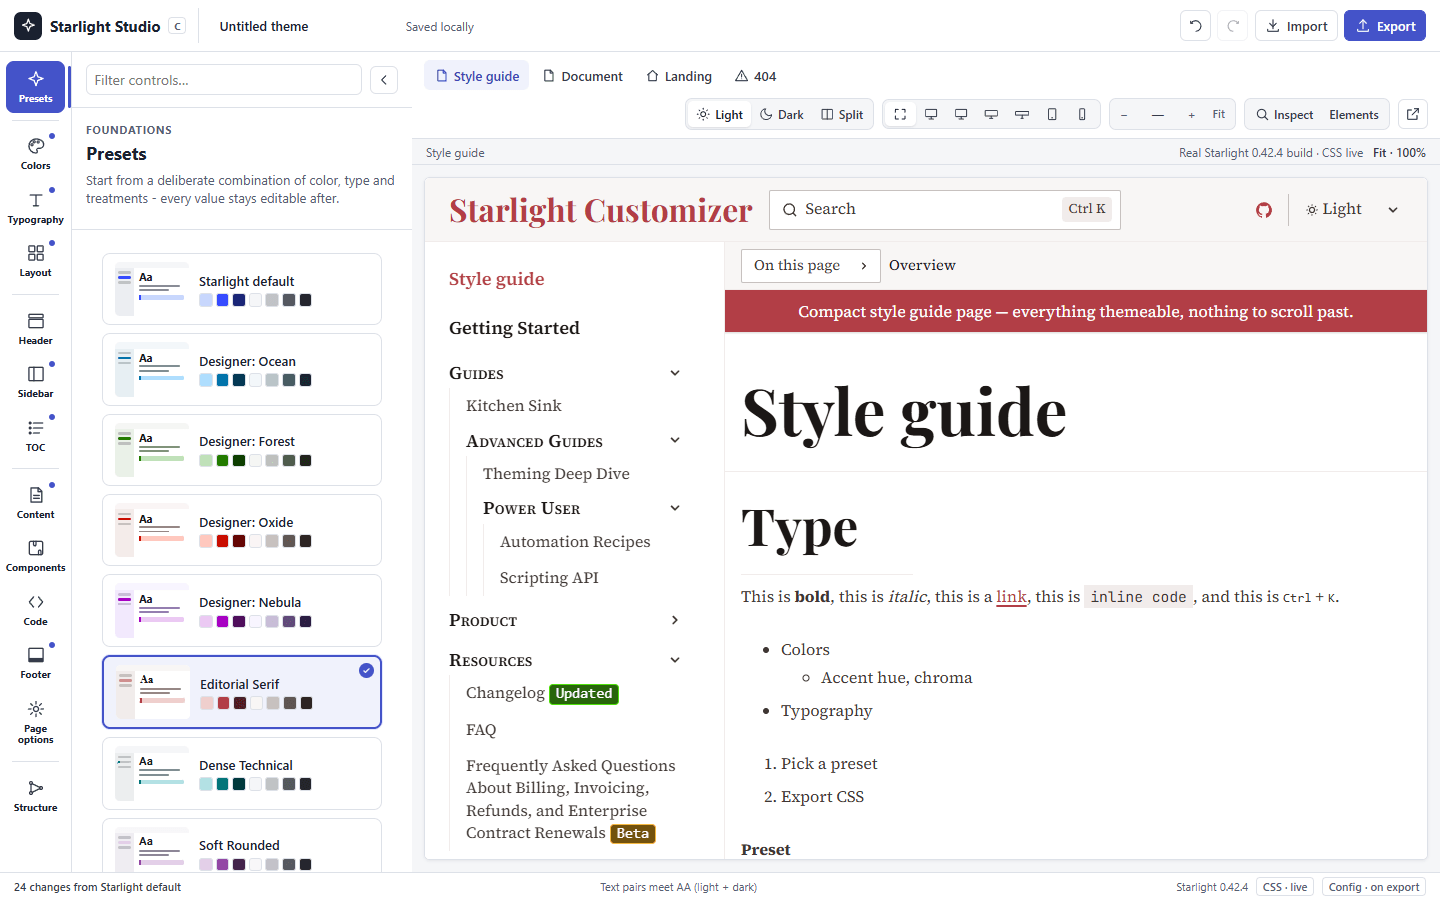
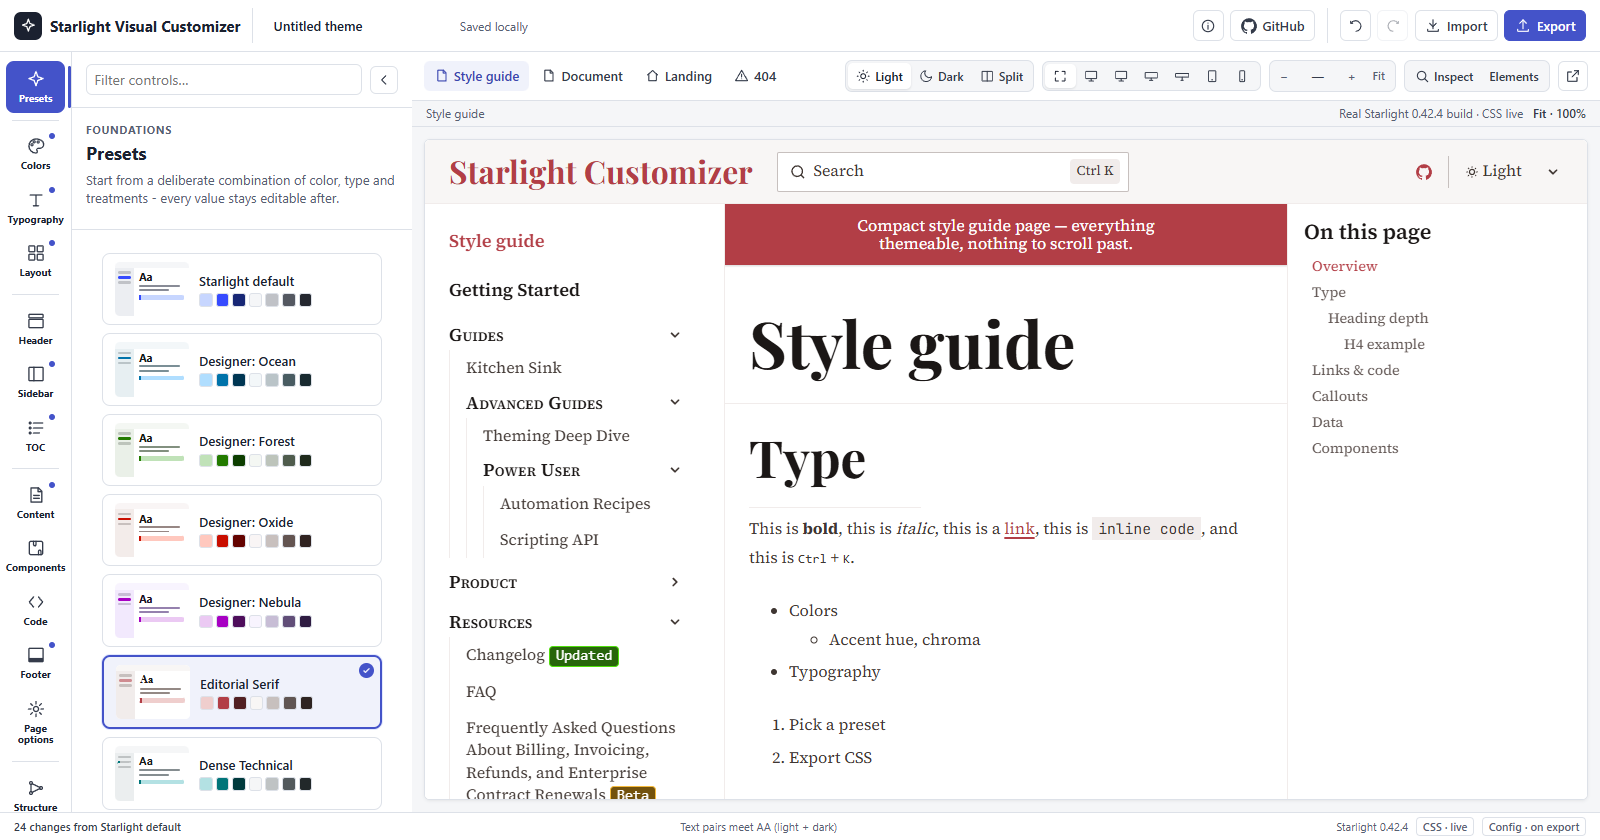
docs: a README that sells the studio, with fresh screenshots
Rewrites the root README as a landing page: a one-line pitch, a "Try it
live" link to the hosted studio, what the studio does, a screenshot grid,
how export works (theme.css plus APPLY-THEME.md, no plugin), privacy,
local setup, tests, the libraries it is built with, and the independence
line from the About page.

The screenshots are new captures of the current studio: the hero
(docs/studio.png, now the Editorial Serif preset, keeping its file name
so the planned social preview card can still start from it), Split light
and dark, the Colors group, the Export dialog and the About dialog. The
old hero still showed the earlier "Starlight Studio" name.

The Tests table no longer hard-codes the e2e check total, which drifted
as suites grew; app/README.md keeps the per-suite counts.

Claude-Session: https://claude.ai/code/session_016S7ZcMgJvVygiJveoNmCUz

diff --git a/README.md b/README.md
@@ -1,13 +1,90 @@
 # Starlight Visual Customizer
 
-A visual theme customizer for [Astro Starlight](https://starlight.astro.build/) docs sites. It
-previews your real Starlight pages live - in an actual iframe, with your real content, not a
-mockup - while you adjust colors, typography, layout, and component styles, then exports a
-`theme.css` and an `APPLY-THEME.md` you drop into your own Starlight project.
+**A free visual theme editor for [Starlight](https://starlight.astro.build/). Restyle colors,
+fonts, layout and components on real Starlight pages, then export one CSS file.**
 
-![The Starlight Studio, showing the Editorial Serif preset applied to the style guide page](docs/studio.png)
+[![Try it live](https://img.shields.io/badge/Try_it_live-open_the_studio-4453c9?style=for-the-badge)](https://projects.prisantlabs.com/starlight-visual-customizer/studio/)
+[![MIT license](https://img.shields.io/badge/license-MIT-blue)](LICENSE)
+[![Built for Starlight 0.42.4](https://img.shields.io/badge/Starlight-0.42.4-6d4aff)](https://starlight.astro.build/)
+[![Astro 7.3.5](https://img.shields.io/badge/Astro-7.3.5-ff5d01)](https://astro.build/)
 
-## Quick start
+[![The studio with the Editorial Serif preset applied: serif headings, a red accent and a banner on a Starlight style guide page](docs/studio.png)](https://projects.prisantlabs.com/starlight-visual-customizer/studio/)
+
+Starlight's built-in color theme editor sets an accent color and a gray. This editor covers
+typography, layout and component styles too. Every change appears at once on real Starlight
+pages, in light mode and dark mode.
+
+## What you can do
+
+- **Start from a preset.** Nine presets range from Starlight's own default to Editorial Serif and
+  High Contrast Mono. Every value stays editable after you pick one.
+- **Change the whole look, not just the palette.** Colors, fonts, the type scale, the content
+  width, the header, the sidebar, the table of contents, callouts, cards, tables, tabs, code
+  blocks and the footer each have their own controls.
+- **See your theme on real pages.** The preview is an actual Starlight build in a frame, not a
+  mockup. Switch between a style guide, a long document, a landing page and the 404 page.
+- **Check light and dark together.** Split view shows both modes side by side. The status bar
+  reports whether text color pairs meet WCAG AA contrast in both modes.
+- **Find the control for any element.** Turn on Inspect, then click an element on the page to
+  open the controls that style it.
+- **Preview at real sizes.** Device widths run from a 390-pixel phone to a 2560-pixel ultra-wide
+  screen.
+- **Undo anything, and share the result.** Every change is one undo step. A share link carries
+  the whole theme in its URL.
+
+<table>
+  <tr>
+    <td width="50%"><img src="docs/studio-split.png" alt="Split view: the same page in light mode and dark mode, side by side"></td>
+    <td width="50%"><img src="docs/studio-colors.png" alt="The Colors group: accent and gray hue sliders, hex fields and the generated swatches"></td>
+  </tr>
+  <tr>
+    <td><b>Light and dark, side by side.</b> Split view renders the page in both modes from one theme.</td>
+    <td><b>Colors that stay readable.</b> Pick a hue or type a hex value; Starlight's palette algorithm tunes lightness per role.</td>
+  </tr>
+  <tr>
+    <td><img src="docs/studio-export.png" alt="The Export dialog listing theme.css, APPLY-THEME.md and state.json"></td>
+    <td><img src="docs/studio-about.png" alt="The About dialog describing the project"></td>
+  </tr>
+  <tr>
+    <td><b>Export in one click.</b> Copy or download each file, or get all three in a zip.</td>
+    <td><b>About the project.</b> What the studio does and where to learn more about Starlight.</td>
+  </tr>
+</table>
+
+## How export works
+
+Export gives you three files. The theme uses Starlight's own `customCss` option, so there is no
+plugin to install.
+
+| File | What it holds |
+|---|---|
+| `theme.css` | Only the values that differ from Starlight's defaults, as plain unlayered CSS |
+| `APPLY-THEME.md` | Numbered steps for adding the theme to your project, which a coding agent can follow too |
+| `state.json` | The theme's settings, so you can import it later and keep editing |
+
+`APPLY-THEME.md` is generated for each theme, and its steps are the same every time:
+
+1. Copy the exported `theme.css` into `src/styles/` in your project.
+2. In `astro.config.mjs`, add that file as the **last** entry of Starlight's `customCss` array.
+   The theme's CSS is unlayered, so the last entry wins any tie with another stylesheet.
+3. If you picked a non-default web font, `npm install` each `@fontsource-variable/<font>`
+   package the file lists.
+4. Rebuild.
+
+A round-trip test checks this promise. It applies a real export to a freshly scaffolded Starlight
+site, then compares the computed styles with the studio's own live preview.
+
+## Privacy
+
+Your theme never leaves your browser. The state, the preview and the export all run and stay on
+the client, in `localStorage` and, if you use one, a share link. The studio makes only one kind of
+network request on its own: it loads the variable web fonts you preview from `cdn.jsdelivr.net`
+(Fontsource). [`THIRD-PARTY-NOTICES.md`](THIRD-PARTY-NOTICES.md) lists every dependency and its
+license.
+
+## Run it locally
+
+You need Node 22.
 
 ```bash
 cd app
@@ -16,56 +93,41 @@ npm run build
 npm run preview:bg   # serves dist/ in the background on http://localhost:4420
 ```
 
-Open <http://localhost:4420/studio/> - the studio, showing a demo Starlight site's style guide
-page. Pick a preset, adjust colors/typography/layout, then open **Export** to get `theme.css`,
-`APPLY-THEME.md`, and a share link.
+Open <http://localhost:4420/studio/>. The studio opens on the demo site's style guide page. Pick
+a preset, adjust the controls, then open **Export**.
 
-See [`app/README.md`](app/README.md) for the full developer README: every part of the studio UI,
-running the dev server, and the test suites.
+[`app/README.md`](app/README.md) is the full developer guide. It covers every part of the studio,
+the dev server, serving under a sub-path, and the test suites.
 
-## How an export is applied
+### Serving under a sub-path
 
-`APPLY-THEME.md` is a generated, deterministic set of steps for your own Starlight site:
-
-1. Copy the exported `theme.css` into `src/styles/` in your project.
-2. In `astro.config.mjs`, add (or append to) a `customCss` array entry pointing at that file, as
-   the **last** entry - this theme's CSS is intentionally unlayered, so array order decides any
-   tie with another stylesheet on the same selector, and adding it last is what makes it win.
-3. If you picked a non-default web font, `npm install` the matching `@fontsource-variable/<font>`
-   package(s) it lists.
-4. Rebuild.
-
-A dedicated round-trip test (`app/tests/roundtrip`) applies a real export to a freshly-scaffolded
-Starlight site and diffs it against the studio's own live preview, so this promise is checked, not
-just documented.
-
-## Serving under a sub-path
-
-The app builds and runs at `/` by default. It can also be served under a sub-path - for example a
-GitHub Pages project site at `https://<user>.github.io/<repo>/` - by setting one build-time
-environment variable, `SVC_SITE_BASE`, before `astro build`/`astro preview`. Every internal link
-the customizer builds (page tabs, frame navigation, the sidebar) goes through one base-path helper,
-so nothing else needs to change. See ["Serving under a sub-path"](app/README.md#serving-under-a-sub-path)
-in the app README for the exact commands.
+The app builds for `/` by default. To serve it under a sub-path, such as a GitHub Pages project
+site at `https://<user>.github.io/<repo>/`, set `SVC_SITE_BASE` before `astro build` and
+`astro preview`. Every internal link goes through one base-path helper, so nothing else changes.
+See ["Serving under a sub-path"](app/README.md#serving-under-a-sub-path) for the exact commands.
 
 ## Tests
 
 | Suite | What it checks |
 |---|---|
-| `npm test` (193 unit tests) | The CSS/`APPLY-THEME.md` emitters, manifest, state, color math, sidebar-IA parser, undo/redo stack, and base-path helper - no browser needed |
-| `npm run test:e2e` (10 browser suites, 869 checks) | Every control's visual effect and target selector, the studio shell (rail, panel, contrast, undo/redo), Inspect, hex color entry, the structure editor, and PNG screenshot export - against a real running preview |
-| `npm run test:roundtrip` | Applies a real export to a freshly-scaffolded Starlight site and diffs computed styles against the studio's live preview, proving the export/preview promise holds outside the studio |
+| `npm test` (193 unit tests) | The CSS and `APPLY-THEME.md` emitters, the manifest, state, color math, the sidebar parser, undo and redo, and the base-path helper. No browser needed. |
+| `npm run test:e2e` (10 browser suites) | Every control's visual effect and target, the studio shell, Inspect, hex color entry, the structure editor and PNG screenshot export, against a running preview |
+| `npm run test:roundtrip` | Applies a real export to a freshly scaffolded Starlight site and compares its computed styles with the studio's live preview |
 
-Full suite-by-suite breakdown, ports, and commands: [`app/README.md`](app/README.md#tests).
+Every pull request runs the unit tests and a production build in CI. The suite-by-suite
+breakdown, ports and commands are in [`app/README.md`](app/README.md#tests).
 
-## Privacy
+## Built with
 
-Your theme never leaves your browser: everything - the state, the preview, the export - runs and
-stays client-side (`localStorage` and, if you use it, a URL-encoded share link). The only network
-requests the studio makes on its own are to `cdn.jsdelivr.net` (Fontsource), to load the variable
-web fonts you preview or select - see [`THIRD-PARTY-NOTICES.md`](THIRD-PARTY-NOTICES.md) for the
-full list and their licenses.
+[Astro](https://astro.build/) and [Starlight](https://starlight.astro.build/), with
+[culori](https://github.com/Evercoder/culori) for color math, [vanilla-colorful](https://github.com/web-padawan/vanilla-colorful)
+for the color picker, [fflate](https://github.com/101arrowz/fflate) for the zip download and
+[modern-screenshot](https://github.com/qq15725/modern-screenshot) for PNG export.
 
 ## License
 
-[MIT](LICENSE). Third-party licenses and attributions: [`THIRD-PARTY-NOTICES.md`](THIRD-PARTY-NOTICES.md).
+[MIT](LICENSE). Third-party licenses and attributions are in
+[`THIRD-PARTY-NOTICES.md`](THIRD-PARTY-NOTICES.md).
+
+Starlight Visual Customizer is an independent, open-source project by Prisant Labs. It is not
+affiliated with or endorsed by the Astro team.
